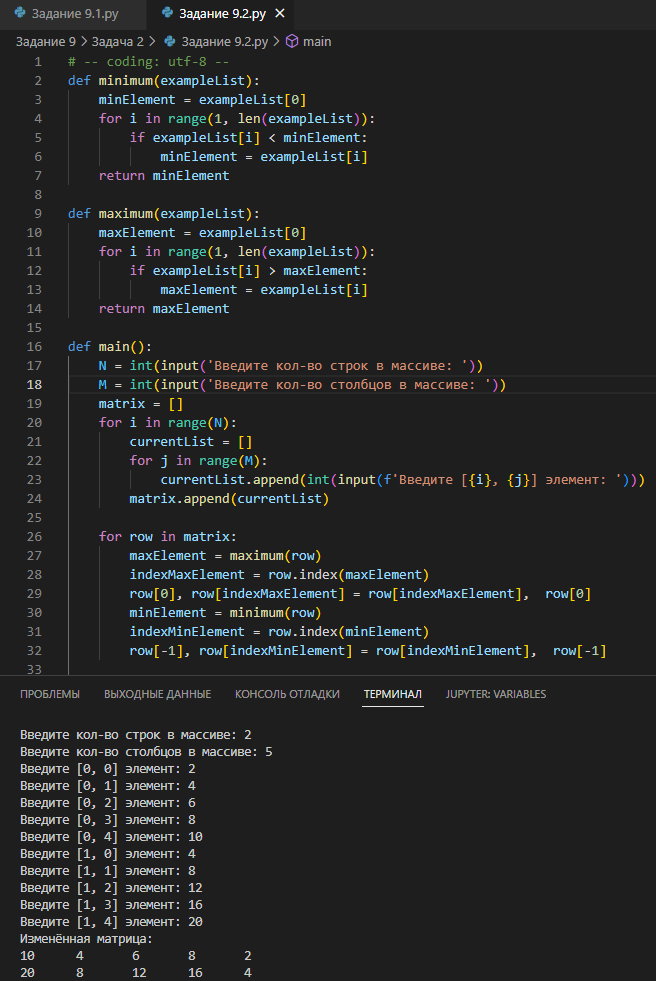
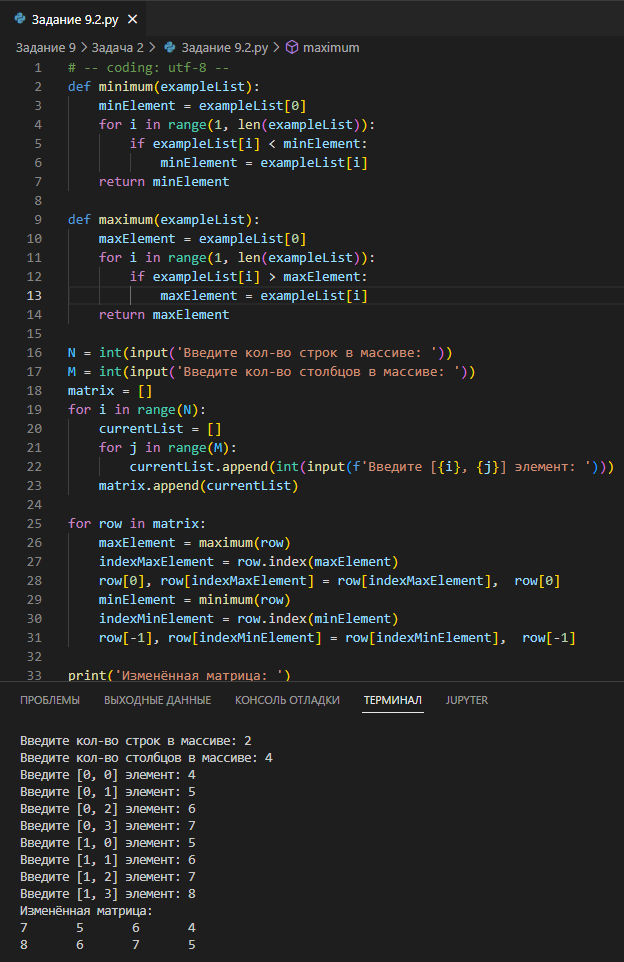
Add files via upload

diff --git a/Задание 9/Задача 2/Задание 9.2.py b/Задание 9/Задача 2/Задание 9.2.py
@@ -13,27 +13,25 @@ def maximum(exampleList):
             maxElement = exampleList[i]
     return maxElement
 
-def main():
-    N = int(input('Введите кол-во строк в массиве: '))
-    M = int(input('Введите кол-во столбцов в массиве: '))
-    matrix = []
-    for i in range(N):
-        currentList = []
-        for j in range(M):
-            currentList.append(int(input(f'Введите [{i}, {j}] элемент: ')))
-        matrix.append(currentList)
+N = int(input('Введите кол-во строк в массиве: '))
+M = int(input('Введите кол-во столбцов в массиве: '))
+matrix = []
+for i in range(N):
+    currentList = []
+    for j in range(M):
+        currentList.append(int(input(f'Введите [{i}, {j}] элемент: ')))
+    matrix.append(currentList)
 
-    for row in matrix:
-        maxElement = maximum(row)
-        indexMaxElement = row.index(maxElement)
-        row[0], row[indexMaxElement] = row[indexMaxElement],  row[0]
-        minElement = minimum(row)
-        indexMinElement = row.index(minElement)
-        row[-1], row[indexMinElement] = row[indexMinElement],  row[-1]
+for row in matrix:
+    maxElement = maximum(row)
+    indexMaxElement = row.index(maxElement)
+    row[0], row[indexMaxElement] = row[indexMaxElement],  row[0]
+    minElement = minimum(row)
+    indexMinElement = row.index(minElement)
+    row[-1], row[indexMinElement] = row[indexMinElement],  row[-1]
     
-    print('Изменённая матрица: ')
-    for i in range(N):
-        for j in range(M):
-            print(matrix[i][j], end='\t')
-        print()
-main()
+print('Изменённая матрица: ')
+for i in range(N):
+    for j in range(M):
+        print(matrix[i][j], end='\t')
+    print()
